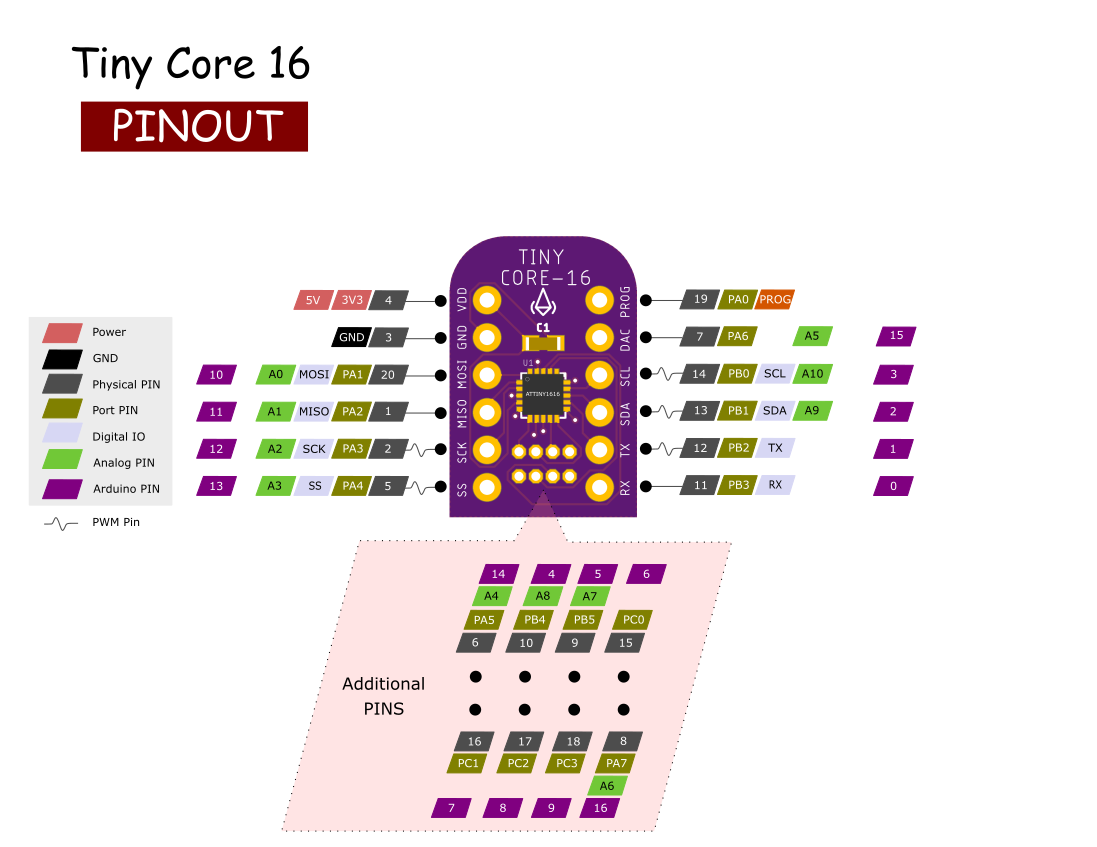
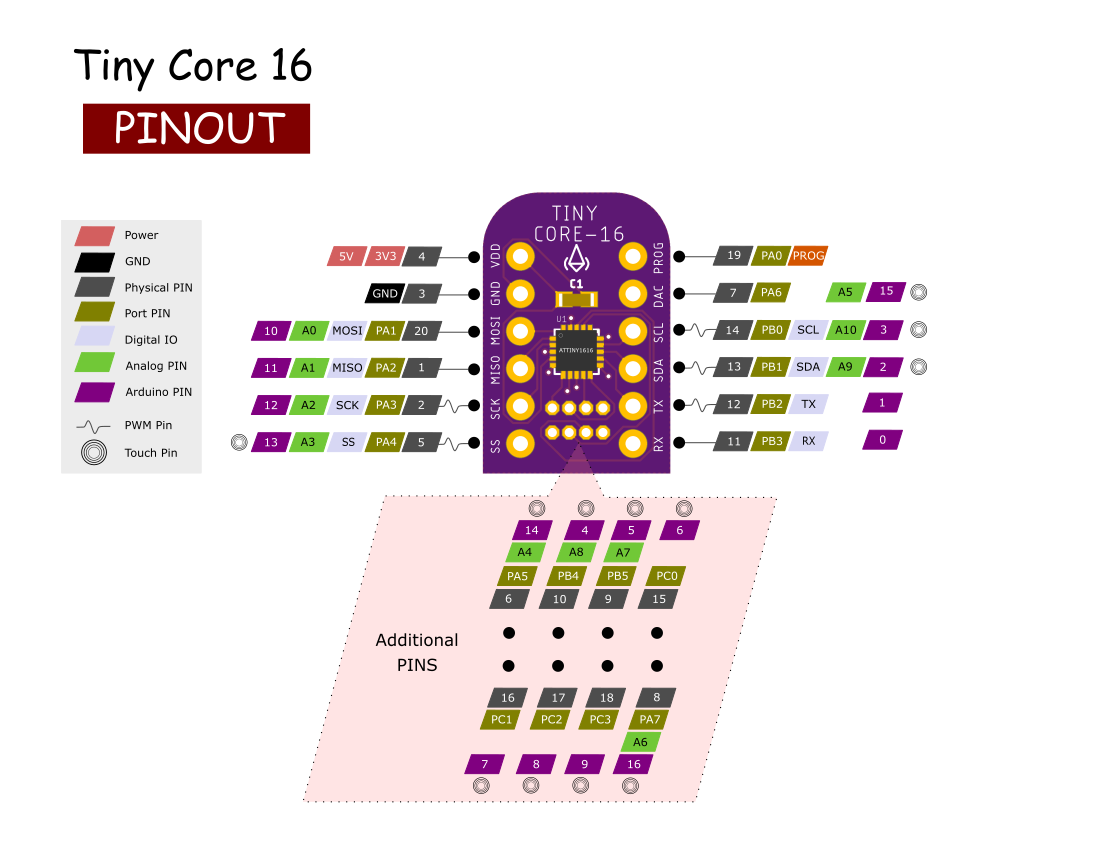
update touch pins

Changed region(s): [[0.031, 0.2149, 0.8678, 0.9823], [0.062, 0.0307, 0.2789, 0.1842], [0.093, 0.6139, 0.124, 0.6446]]

diff --git a/source/usage.rst b/source/usage.rst
@@ -212,3 +212,32 @@ Check example code for more details.
 Reference: https://www.arduino.cc/en/Reference/EEPROM
 
 Now let's use these to build awesome tiny projects!
+
+Touch
+------
+
+TinyCore 16 has 12 pins available for touch configuration, TinyCore 32 has 15 pins available for touch configuration.
+
+To use touch pins, includes TinyTouch.h and follow the example code below::
+
+    #include "TinyTouch.h"
+
+    TinyTouch touch;
+
+    uint8_t touchPins[2] = {13, 2}; //initialize touch pins
+
+    void setup() {
+        touch.begin(touchPins, sizeof(touchPins));
+        
+        pinMode(LED_BUILTIN, OUTPUT);
+    }
+
+    void loop() {
+        test.touchHandle();
+
+        if (test.getValue(0) > 800 or test.getValue(1) > 800) {
+            digitalWrite(LED_BUILTIN, HIGH);
+        } else {
+            digitalWrite(LED_BUILTIN, LOW);
+        }
+    }
